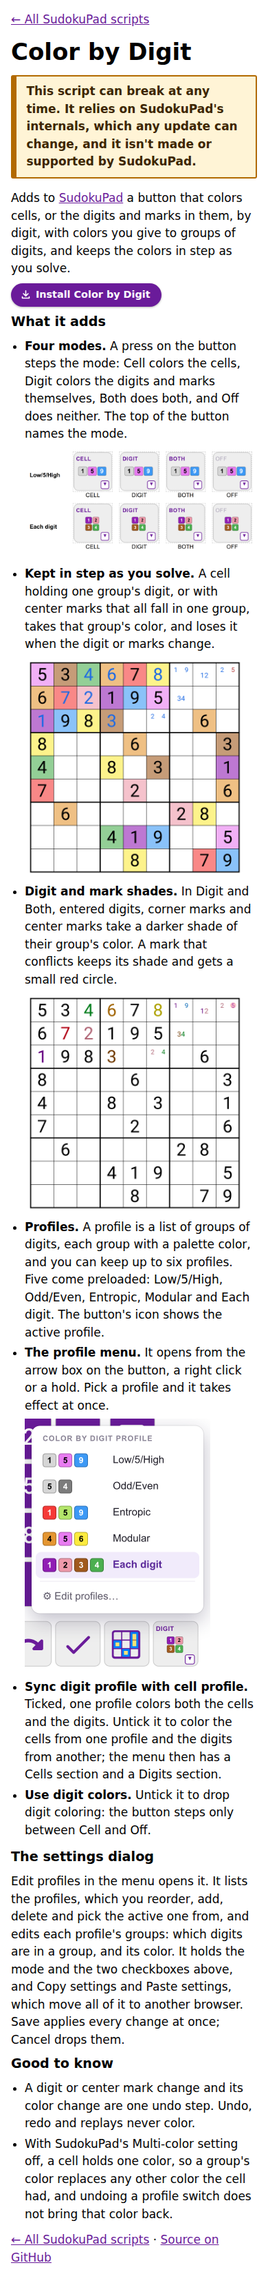
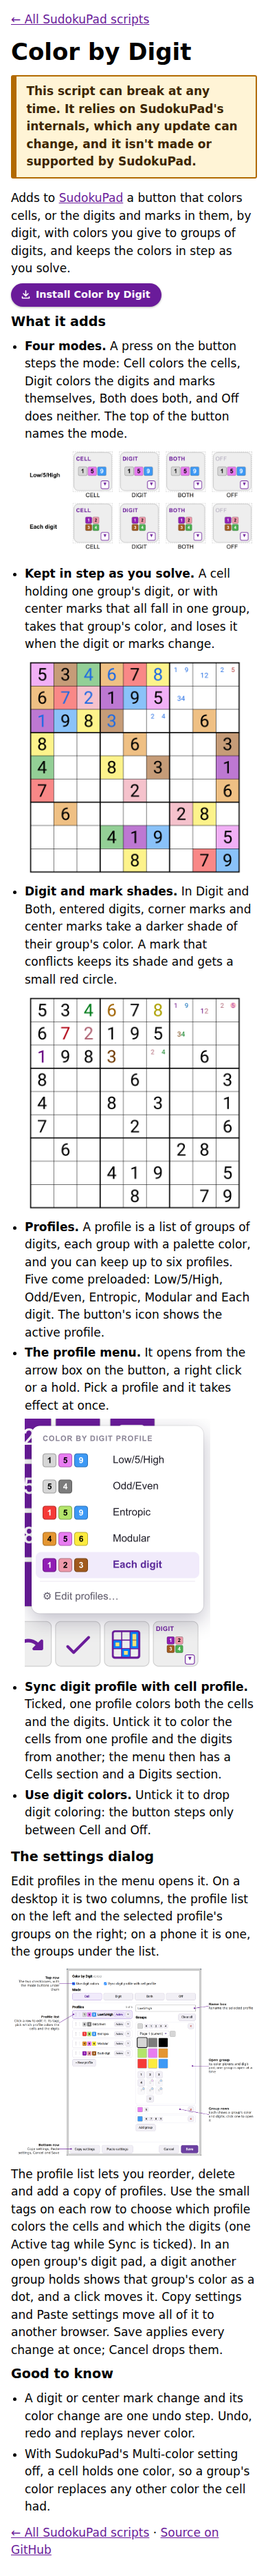
Color by Digit details page: annotated picture of the settings dialog (#307)
Drops the undo-with-Multi-color-off claim from the page and README.

Closes #307

diff --git a/site/color-by-digit.html b/site/color-by-digit.html
@@ -9,6 +9,7 @@
   ul { margin: 0 0 .75rem; padding-left: 1.25rem; }
   li { margin-bottom: .25rem; }
   li img { display: block; max-width: min(100%, 20rem); height: auto; margin: .35rem 0 .5rem; }
+  img.panel { display: block; max-width: 100%; height: auto; margin: .35rem 0 .75rem; }
   li img.wide { max-width: min(100%, 36rem); }
 </style>
 </head>
@@ -39,12 +40,14 @@
   </ul>
 
   <h2>The settings dialog</h2>
-  <p>Edit profiles in the menu opens it. It lists the profiles, which you reorder, delete and add a copy of; click a profile to edit it and rename it on the right, and use the small tags on each row to choose which profile colors the cells and which the digits (one Active tag while Sync is ticked). The right column edits the selected profile's groups, each one short row with its color and its digits; click a row to open that group's color and digit pickers (one group is open at a time). In a group's digit pad, a digit another group holds shows that group's color as a dot, and a click moves it. The two checkboxes above sit in a row across the top, with the mode as one row of buttons under them. On a desktop the dialog is two columns, the profile list on the left and the groups editor on the right; on a phone it is one, the editor under the list. Copy settings and Paste settings, in the bottom row beside Cancel and Save, move all of it to another browser. Save applies every change at once; Cancel drops them.</p>
+  <p>Edit profiles in the menu opens it. On a desktop it is two columns, the profile list on the left and the selected profile's groups on the right; on a phone it is one, the groups under the list.</p>
+  <img class="panel" src="https://raw.githubusercontent.com/caneff/sudokupad-scripts/main/docs/research/color-by-digit-dialog-annotated.png" alt="The Color by Digit settings dialog with each part labelled. Top row: the two checkboxes, with the mode buttons under them. Profile list: click a row to edit it; its tags pick which profile colors the cells and the digits. Name box: rename the selected profile. Group rows: each shows a group's color and digits; click one to open it. Open group: its color pickers and digit pad; one group is open at a time. Bottom row: Copy settings, Paste settings, Cancel and Save." width="1172" height="907">
+  <p>The profile list lets you reorder, delete and add a copy of profiles. Use the small tags on each row to choose which profile colors the cells and which the digits (one Active tag while Sync is ticked). In an open group's digit pad, a digit another group holds shows that group's color as a dot, and a click moves it. Copy settings and Paste settings move all of it to another browser. Save applies every change at once; Cancel drops them.</p>
 
   <h2>Good to know</h2>
   <ul>
     <li>A digit or center mark change and its color change are one undo step. Undo, redo and replays never color.</li>
-    <li>With SudokuPad's Multi-color setting off, a cell holds one color, so a group's color replaces any other color the cell had, and undoing a profile switch does not bring that color back.</li>
+    <li>With SudokuPad's Multi-color setting off, a cell holds one color, so a group's color replaces any other color the cell had.</li>
   </ul>
   <p><a href="index.html">&larr; All SudokuPad scripts</a> &middot; <a href="https://github.com/caneff/sudokupad-scripts">Source on GitHub</a></p>
 </body>

diff --git a/site.test.js b/site.test.js
@@ -295,18 +295,24 @@ test(`${CBD} lists what the script adds, one item per feature`, () => {
   assert.match(lines[2], /red circle/)
 })
 
-test(`${CBD} describes the settings dialog in text, with no picture`, () => {
+test(`${CBD} shows the settings dialog as one annotated picture whose alt text names every label, with its text`, () => {
   const m = read(CBD).match(/<h2>The settings dialog<\/h2>([\s\S]*?)<h2>/)
   assert.ok(m, `site/${CBD} has no <h2>The settings dialog</h2>`)
-  assert.deepEqual(imgs(m[1]), [])
+  const found = imgs(m[1])
+  assert.equal(found.length, 1, 'the settings dialog section is not one picture')
+  assert.ok(found[0].includes(`src="${RAW}docs/research/color-by-digit-dialog-annotated.png"`))
+  const alt = (found[0].match(/alt="([^"]*)"/) || [])[1] || ''
+  for (const label of ['Top row', 'Profile list', 'Name box', 'Group rows', 'Open group', 'Bottom row']) {
+    assert.ok(alt.includes(label), `the picture's alt text does not name "${label}"`)
+  }
   const text = plain(m[1])
-  for (const word of ['profiles', 'groups', 'Copy settings', 'Paste settings']) assert.ok(text.includes(word), `the dialog text does not mention ${word}`)
+  for (const word of ['profiles', 'groups', 'tags', 'Copy settings', 'Paste settings']) assert.ok(text.includes(word), `the dialog text does not mention ${word}`)
 })
 
 test(`${CBD} good to know gives the undo behavior and the Multi-color caveat`, () => {
   assert.deepEqual(section(CBD, 'Good to know'), [
     'A digit or center mark change and its color change are one undo step. Undo, redo and replays never color.',
-    "With SudokuPad's Multi-color setting off, a cell holds one color, so a group's color replaces any other color the cell had, and undoing a profile switch does not bring that color back."
+    "With SudokuPad's Multi-color setting off, a cell holds one color, so a group's color replaces any other color the cell had."
   ])
 })
 

diff --git a/README.md b/README.md
@@ -42,7 +42,7 @@ In Cell mode, every cell holding a digit, and every empty cell whose center mark
 - A digit or center mark change and its color change are one undo step. Undo, redo and replays never trigger cell coloring.
 - Entering Cell or Both, loading a puzzle in either, and a restart in either color the grid: every cell with a digit or center marks gets its colors, not only the givens, in one undo step. A cell with no digit and no center marks keeps whatever color it has. Saving changed groups in Cell or Both recolors the whole grid in one undo step.
 - Leaving Cell or Both for Digit or Off takes every group color of the active profile off every cell, in one undo step; colors in no group stay. A group color you remove by hand in Cell stays off until that cell's digit or center marks change, or until entering Cell, a restart, or a reload in Cell recolors the cell.
-- With the Multi-color setting off, SudokuPad replaces a cell's color when a group color is added, so a color in no group stays only with Multi-color on. For the same reason, with Multi-color off, undoing a profile switch or a mode change does not bring back a color that the group color replaced.
+- With the Multi-color setting off, SudokuPad replaces a cell's color when a group color is added, so a color in no group stays only with Multi-color on.
 - In Digit and Both, entered digits, corner marks and center marks take a darker shade of their group's color, as the palette the puzzle shows has it, the way Pen Tool Extras darkens cell colors for its pens. Givens, and digits in no group, keep SudokuPad's own color. A mark that conflicts keeps its shade and gets a small red circle behind it, while SudokuPad shows conflicts. The shades are not part of the puzzle, so they are never an undo step; a profile switch or a mode change shows them at once.
 
 ### Dark Page
